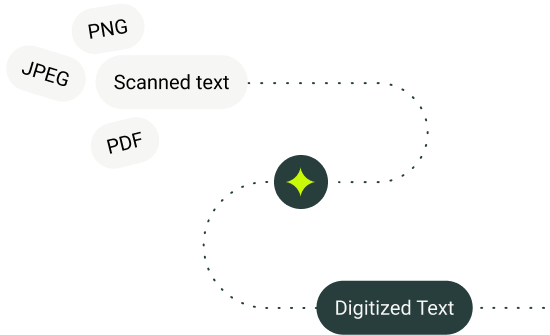
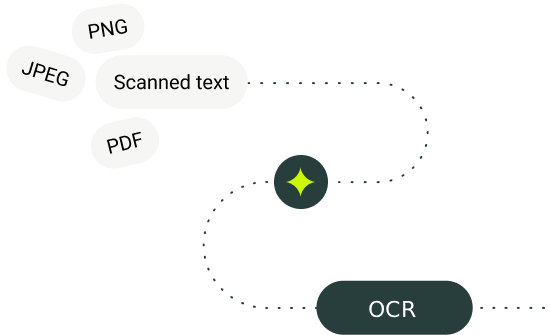
update: minor updates
- Remove core corpus and ocr from projects
- Remove the man in hero image
- Change the “digitized text” to “ocr”
- Update the members

Changed region(s): [[0.5873, 0.8955, 0.8345, 0.9552]]

diff --git a/src/app/_components/team.tsx b/src/app/_components/team.tsx
@@ -33,25 +33,25 @@ const team = [
     image: "/images/team/zeki.png",
   },
   {
-    name: "Abdellatif Abdelfattah",
-    title: "CEO",
+    name: "Ahmet Aktan",
+    title: "Digitization Lead",
     description:
-      "Abdellatif co-founded Tarteel AI, lead engineering at Quran.com, and worked at Twitter.",
-    image: "/images/team/abdellatif.png",
+      "Ahmed holds a PhD. from Al-Azhar university. He leads the digitization team and efforts.",
+    image: "/images/team/ahmed-aktan.png",
   },
   {
-    name: "Mohamed Lamine",
-    title: "Head of Design",
+    name: "Anas Hassanien",
+    title: "Software Engineer",
     description:
-      "Mohamed was the design lead at Thmanyah, he consults with startups to build 0 to 1 products",
-    image: "/images/team/lamine.png",
+      "Anas leads the development of our core products. He was a software engineer at Simli AI.",
+    image: "/images/team/anas.png",
   },
   {
-    name: "Ahmed Riad",
-    title: "Founding Engineer",
+    name: "Ismail Safadi",
+    title: "Researcher",
     description:
-      "Ahmed co-founded Remail AI, Betterbook, and was an engineer at Quran.com.",
-    image: "/images/team/ahmed-riad.png",
+      "Ismail specializes in Hanafi fiqh. He studied at the University of Jordan and in Turkey.",
+    image: "/images/team/ismail.png",
   },
   {
     name: "Ryad Ramo",
@@ -61,25 +61,18 @@ const team = [
     image: "/images/team/ryad.png",
   },
   {
-    name: "Rahma Fateen",
-    title: "Localization Lead",
+    name: "Abdellatif Abdelfattah",
+    title: "Founding CEO",
     description:
-      "Rahma lead Arabic localization at Tarteel AI. She was a translator at Human Rights Watch.",
-    image: "/images/team/rahma.png",
+      "Abdellatif co-founded Tarteel AI, lead engineering at Quran.com, and worked at Twitter.",
+    image: "/images/team/abdellatif.png",
   },
   {
-    name: "Ahmed Khan",
-    title: "Researcher",
+    name: "Ahmed Riad",
+    title: "Founding Engineer",
     description:
-      "Ahmed is a student at Zaytuna College. He's the creator of The Creative Minority podcast.",
-    image: "/images/team/ahmed-khan.png",
-  },
-  {
-    name: "Ahmet Aktan",
-    title: "Digitization Lead",
-    description:
-      "Ahmed holds a PhD. from Al-Azhar university. He leads the digitization team and efforts.",
-    image: "/images/team/ahmed-aktan.png",
+      "Ahmed co-founded Remail AI, Betterbook, and was an engineer at Quran.com.",
+    image: "/images/team/ahmed-riad.png",
   },
 ];
 
@@ -89,24 +82,29 @@ export default function Team() {
       <Container>
         <Pill>Team</Pill>
         <div className="mt-6 flex flex-col gap-6 md:flex-row md:items-center md:justify-between">
-          <h2 className="max-w-md text-5xl font-bold text-primary-foreground">
+          <h2 className="text-primary-foreground max-w-md text-5xl font-bold">
             Meet the Team Behind our Mission
           </h2>
 
-          <p className="max-w-lg text-lg text-secondary">
+          <p className="text-secondary max-w-lg text-lg">
             {/* Our team comes from Harvard, UPenn, Twitter, and Quran.com. We&apos;re working at the intersection of technology and Islamic research. Join our team. */}
-            The Seemore Foundation is a research-forward nonprofit organization that develops technologies to advance access to and generate insights in Islamic knowledge. Its team brings together experts in AI, engineering, and Islamic studies, working at the intersection of tradition and machine learning to create scalable tools that advance the future of scholarship.
+            The Seemore Foundation is a research-forward nonprofit organization
+            that develops technologies to advance access to and generate
+            insights in Islamic knowledge. Its team brings together experts in
+            AI, engineering, and Islamic studies, working at the intersection of
+            tradition and machine learning to create scalable tools that advance
+            the future of scholarship.
           </p>
         </div>
 
         <TeamCarousel>
           <CarouselPrevious
-            className="-left-5 z-10 hidden bg-white text-primary-foreground hover:bg-white/80 disabled:pointer-events-none disabled:opacity-0 sm:flex"
+            className="text-primary-foreground -left-5 z-10 hidden bg-white hover:bg-white/80 disabled:pointer-events-none disabled:opacity-0 sm:flex"
             variant="default"
           />
 
           <CarouselNext
-            className="-right-5 z-10 hidden bg-white text-primary-foreground hover:bg-white/80 disabled:pointer-events-none disabled:opacity-0 sm:flex"
+            className="text-primary-foreground -right-5 z-10 hidden bg-white hover:bg-white/80 disabled:pointer-events-none disabled:opacity-0 sm:flex"
             variant="default"
           />
 
@@ -129,11 +127,11 @@ export default function Team() {
                   </div>
 
                   <div className="p-6">
-                    <h5 className="text-xl font-semibold text-primary-foreground">
+                    <h5 className="text-primary-foreground text-xl font-semibold">
                       {item.name}
                     </h5>
                     <p className="text-primary-foreground">{item.title}</p>
-                    <p className="mt-4 text-secondary">{item.description}</p>
+                    <p className="text-secondary mt-4">{item.description}</p>
                   </div>
                 </div>
 

diff --git a/src/app/_components/hero.tsx b/src/app/_components/hero.tsx
@@ -21,7 +21,7 @@ export default function Hero() {
   return (
     <section className="relative isolate flex min-h-screen w-full justify-center">
       <Image
-        src="/images/hero.png"
+        src="/images/hero.jpg"
         alt="Hero"
         fill
         className="absolute inset-0 -z-[2] w-full object-cover"
@@ -41,12 +41,14 @@ export default function Hero() {
 
       <div className="mt-64 flex flex-col items-center justify-between px-6 text-white">
         <div className="mx-auto flex max-w-3xl flex-col items-center">
-          <h1 className="text-center font-scheherazade text-6xl font-medium sm:text-8xl">
+          <h1 className="font-scheherazade text-center text-6xl font-medium sm:text-8xl">
             The Future of Islamic Knowledge
           </h1>
 
           <p className="mt-6 max-w-[420px] text-center">
-            We are an organization dedicated to evolving Islamic research for the 21st-century by combining scholarly rigor with AI and other cutting-edge technologies
+            We are an organization dedicated to evolving Islamic research for
+            the 21st-century by combining scholarly rigor with AI and other
+            cutting-edge technologies
           </p>
 
           <div className="mt-6 flex items-center gap-4 font-bold">
@@ -94,10 +96,31 @@ export default function Hero() {
 
         <div id="about"></div>
 
-        <div id="about" className="mx-auto mt-56 flex max-w-4xl flex-col gap-6 pb-16 sm:pb-28">
-          <h3 className="text-2xl font-bold">Bridging Tradition and Technology</h3>
+        <div
+          id="about"
+          className="mx-auto mt-56 flex max-w-4xl flex-col gap-6 pb-16 sm:pb-28"
+        >
+          <h3 className="text-2xl font-bold">
+            Bridging Tradition and Technology
+          </h3>
           <p>
-          As artificial intelligence and online tools transform how the world accesses, analyzes, and preserves knowledge of all types, Islamic knowledge has not kept up. The best platforms are built for the English language, and they train on the existing expanse of the internet–which largely excludes primary sources from the Islamic world, most of which have yet to be digitized. Core texts—spanning law, history, literature and more—often exist only in books on library shelves or scanned pdfs that machines cannot read and, even when they can, provide unstructured formats that  the latest digital tools cannot readily use. Our mission is to address this foundational problem by developing the technical infrastructure that enables Islamic texts to be machine-readable, searchable, and analyzable at scale. Our work bridges the gap between longstanding scholarly traditions and modern research technologies. We collaborate with scholars, technologists, and institutions who share a commitment to preserving the depth of the Islamic tradition while making it accessible and analyzable for future generations.
+            As artificial intelligence and online tools transform how the world
+            accesses, analyzes, and preserves knowledge of all types, Islamic
+            knowledge has not kept up. The best platforms are built for the
+            English language, and they train on the existing expanse of the
+            internet–which largely excludes primary sources from the Islamic
+            world, most of which have yet to be digitized. Core texts—spanning
+            law, history, literature and more—often exist only in books on
+            library shelves or scanned pdfs that machines cannot read and, even
+            when they can, provide unstructured formats that the latest digital
+            tools cannot readily use. Our mission is to address this
+            foundational problem by developing the technical infrastructure that
+            enables Islamic texts to be machine-readable, searchable, and
+            analyzable at scale. Our work bridges the gap between longstanding
+            scholarly traditions and modern research technologies. We
+            collaborate with scholars, technologists, and institutions who share
+            a commitment to preserving the depth of the Islamic tradition while
+            making it accessible and analyzable for future generations.
           </p>
 
           <p className="text-white/70">

diff --git a/src/app/_components/projects.tsx b/src/app/_components/projects.tsx
@@ -32,7 +32,9 @@ export default function Projects() {
                 <ul className="text-secondary/70 mt-4 list-inside list-disc text-xl">
                   <li>15,000+ Islamic Books</li>
                   <li>AI-Powered Search for Islamic Sources</li>
-                  <li>Curated Islamic Collections (universal corpus to come!)</li>
+                  <li>
+                    Curated Islamic Collections (universal corpus to come!)
+                  </li>
                 </ul>
               </div>
 
@@ -70,7 +72,8 @@ export default function Projects() {
                 </h3>
 
                 <p className="text-secondary/70 mt-6 text-xl">
-                Tansis converts Arabic text to Latin script using various transliteration standards including:
+                  Tansis converts Arabic text to Latin script using various
+                  transliteration standards including:
                 </p>
 
                 <ul className="text-secondary/70 mt-4 list-inside list-disc text-xl">
@@ -141,7 +144,7 @@ export default function Projects() {
             />
           </BentoCard>
 
-          <BentoCard className="flex min-h-[400px] flex-col justify-between">
+          {/* <BentoCard className="flex min-h-[400px] flex-col justify-between">
             <div>
               <h3 className="text-primary-foreground text-4xl font-semibold">
                 Core Corpus
@@ -182,7 +185,7 @@ export default function Projects() {
             <p className="text-primary-foreground mt-6 text-lg italic">
               Future Project
             </p>
-          </BentoCard>
+          </BentoCard> */}
         </div>
       </Container>
     </section>
